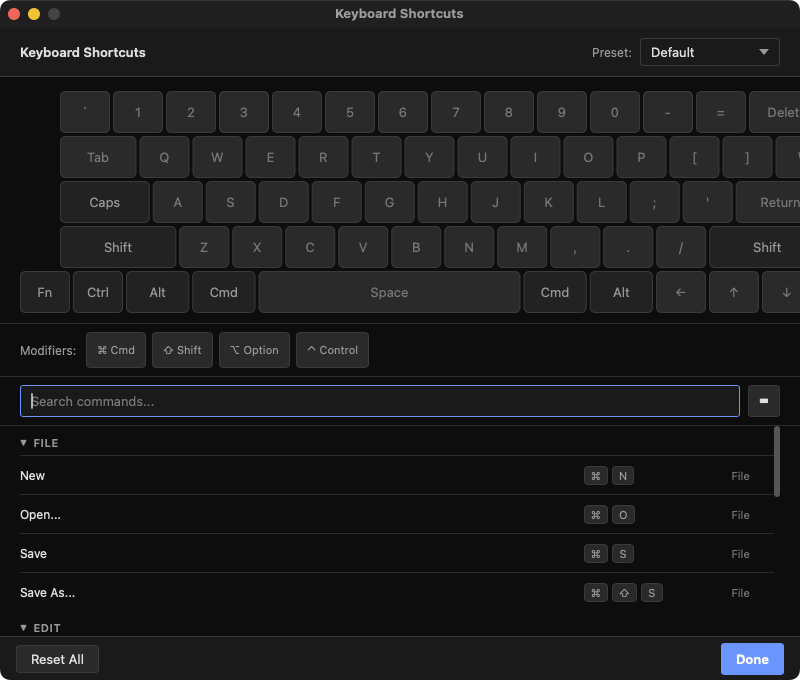
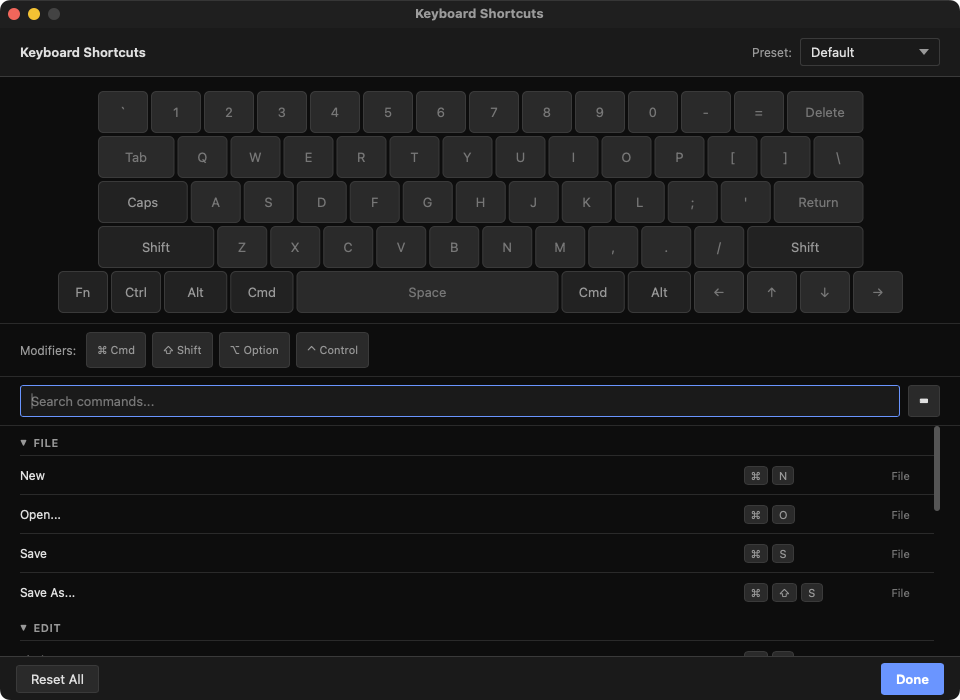
Fix shortcuts window sizing: denylist utility windows from window-state
The window-state plugin was caching old window sizes and overriding
the dimensions set in windows.rs. Added denylist for all 8 utility
windows so only the main workspace window gets state persistence.
Width set to 960px to fully contain the keyboard Canvas.

diff --git a/src-tauri/src/lib.rs b/src-tauri/src/lib.rs
@@ -89,7 +89,11 @@ pub fn run() {
         .plugin(tauri_plugin_shell::init())
         .plugin(tauri_plugin_opener::init())
         .plugin(tauri_plugin_store::Builder::new().build())
-        .plugin(tauri_plugin_window_state::Builder::new().build())
+        .plugin(
+            tauri_plugin_window_state::Builder::new()
+                .with_denylist(&["splash", "settings", "about", "shortcuts", "logs", "update", "whatsnew", "welcome"])
+                .build()
+        )
         .plugin(tauri_plugin_notification::init())
         .plugin(prevent_default())
         .plugin(tauri_plugin_os::init())
